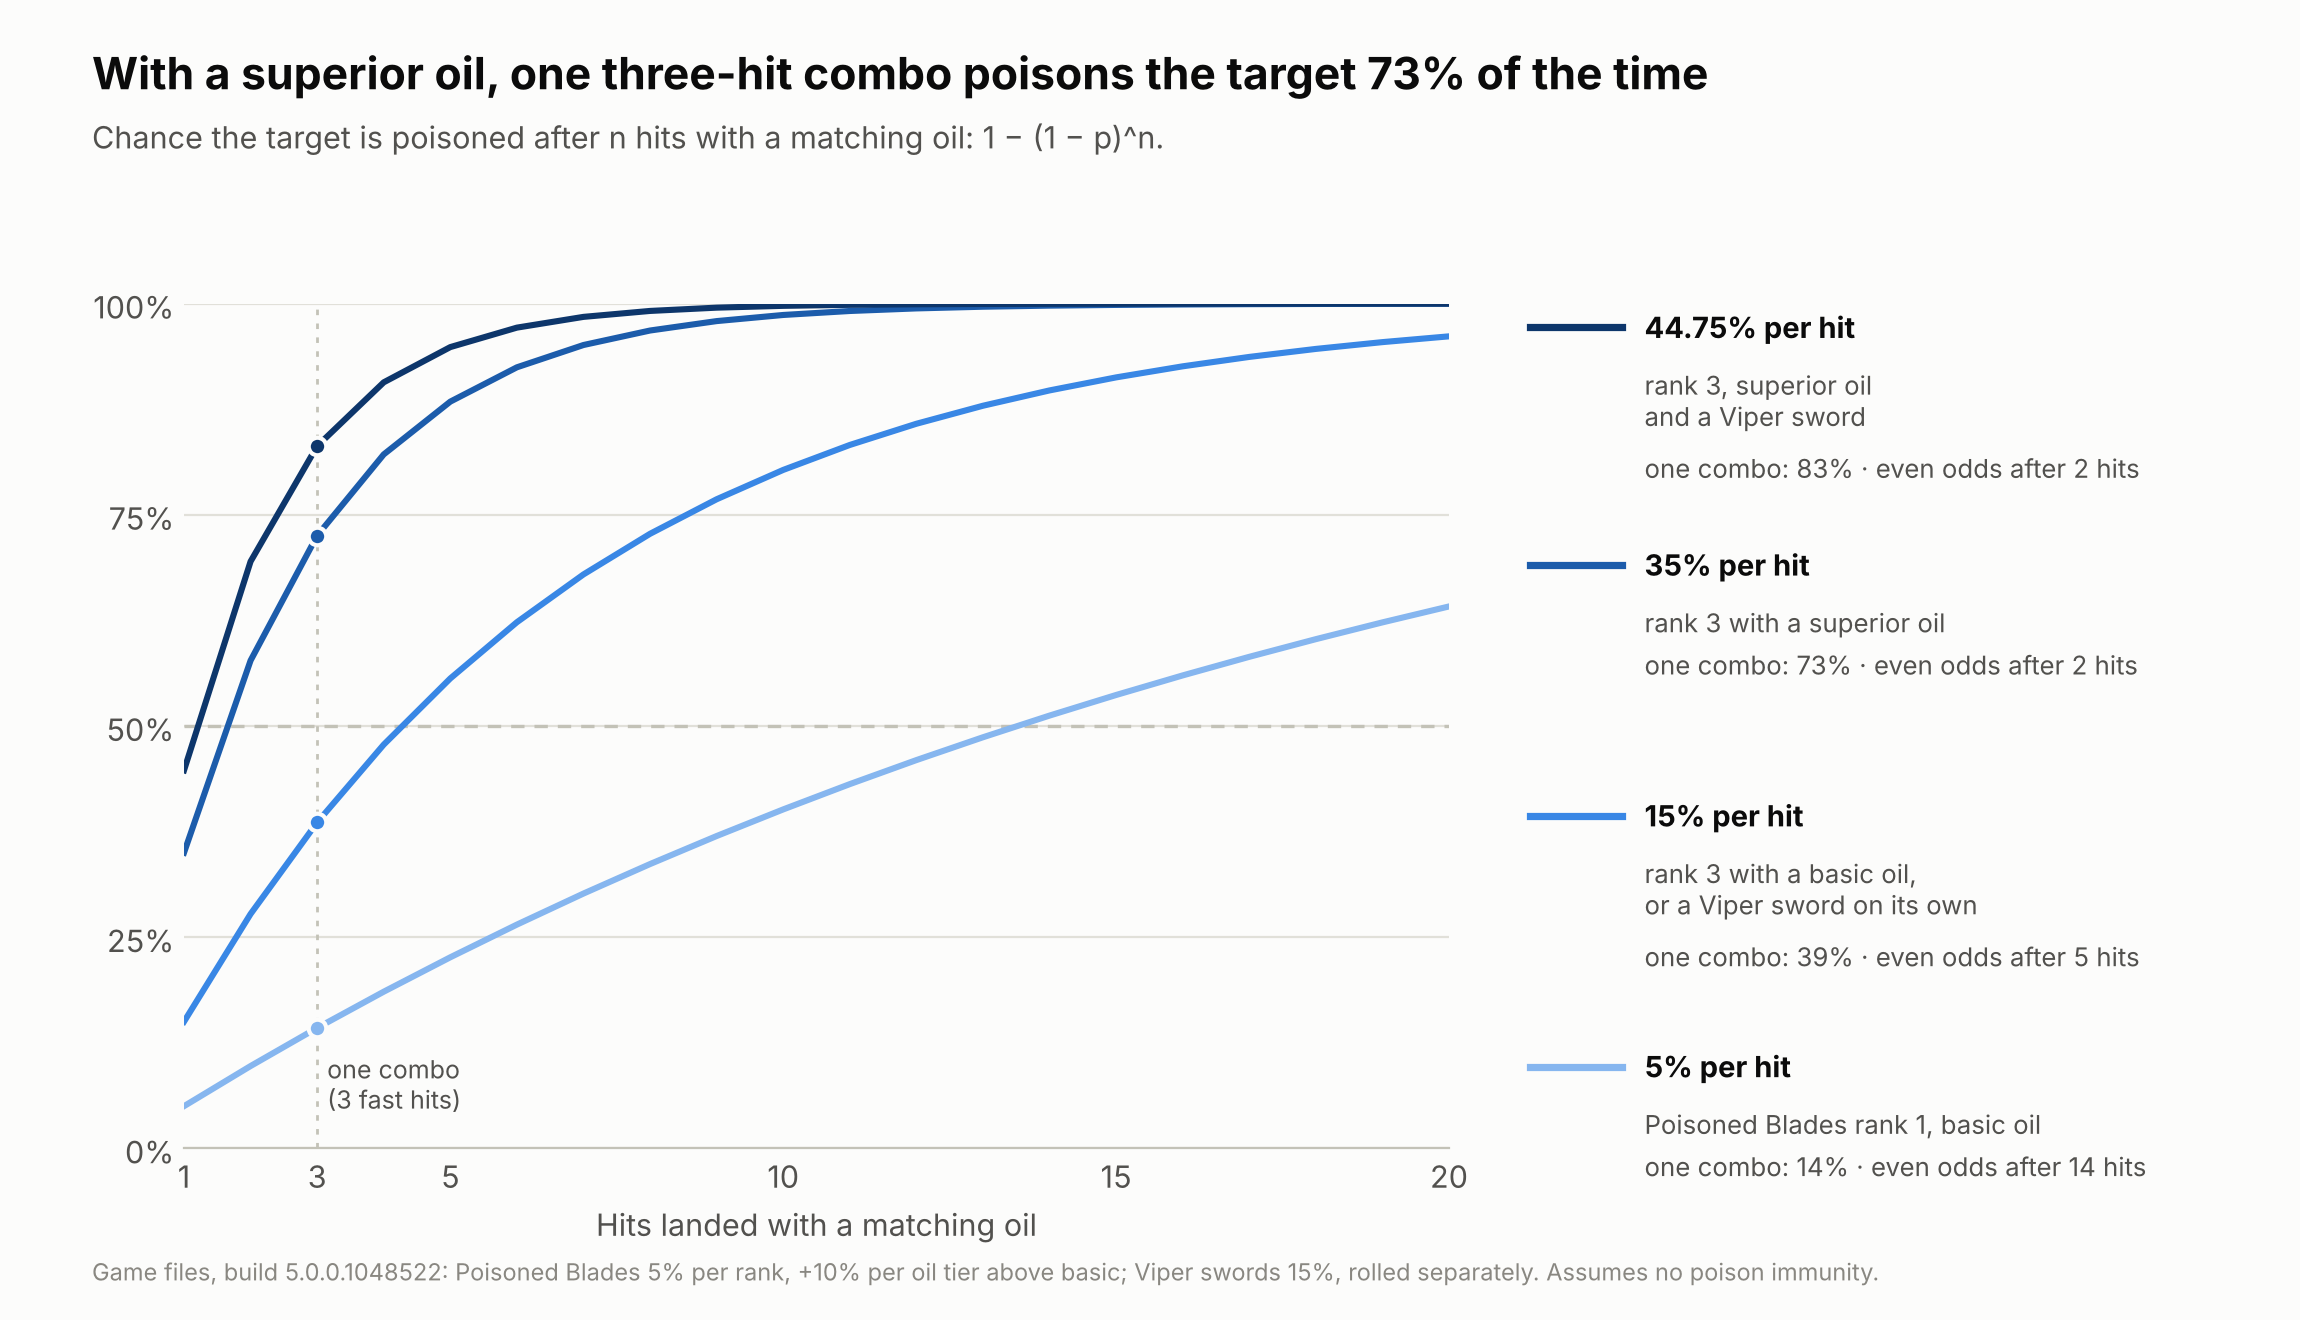
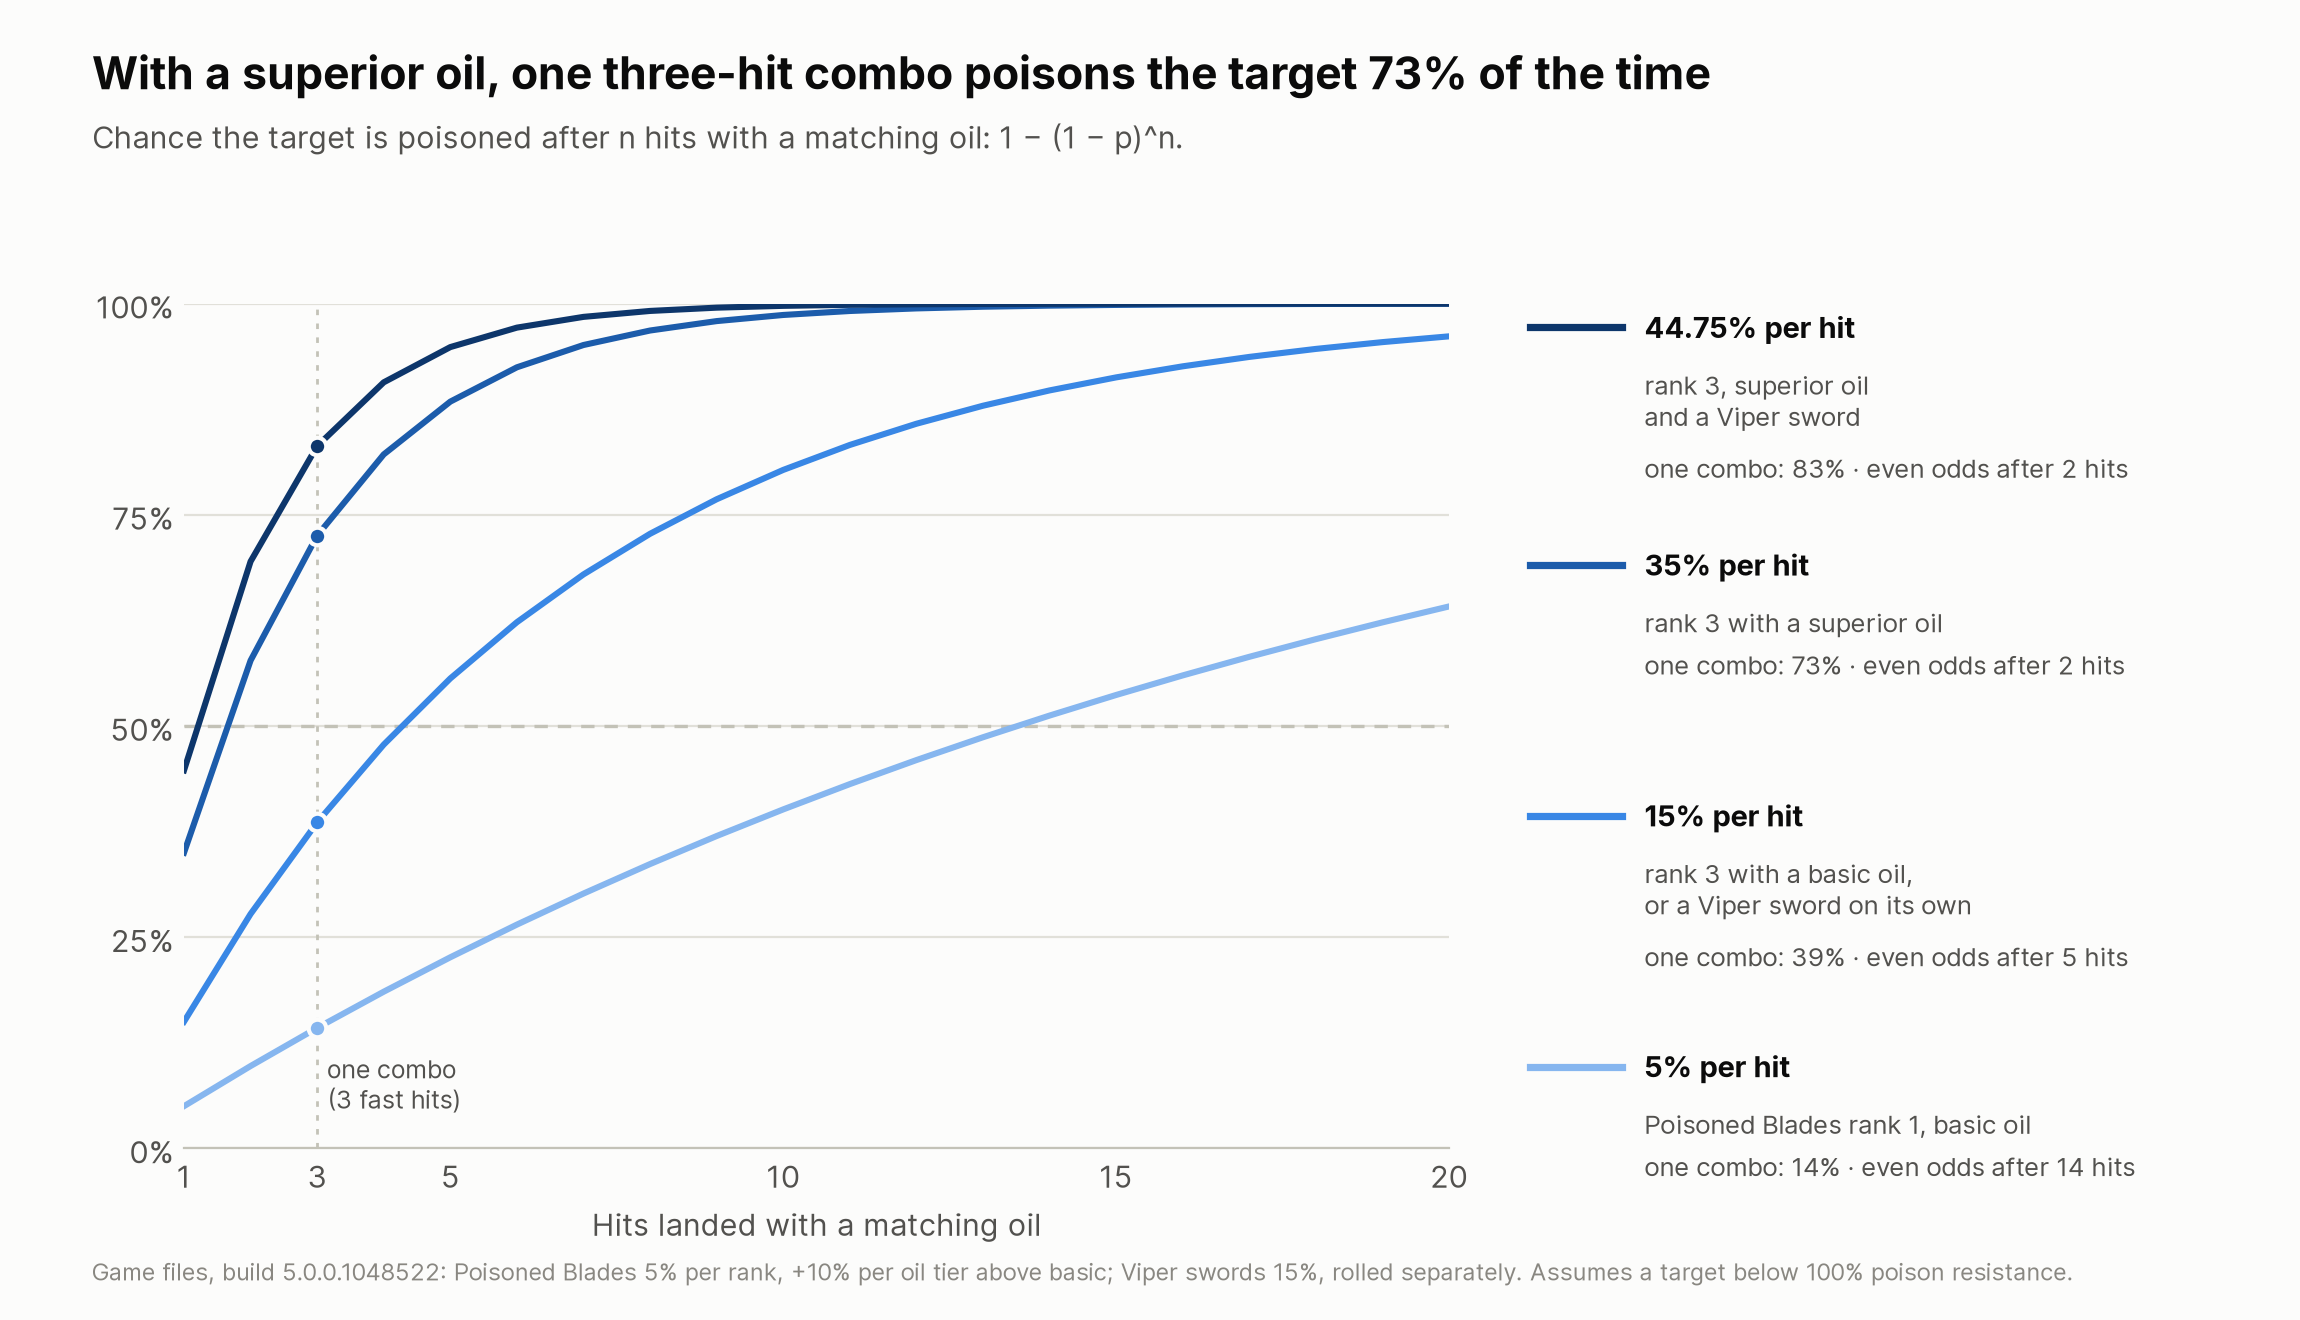
Add the audit scripts and refresh two chart footers
- scripts/unbundle.py, attr_table.py and cr2w_calls.py: the tools
  behind the chapter 19 file audits (bundle extraction with CRC checks,
  attribute listing across the XML, quest-graph script calls).
- scripts/README.md: what each script does and how to repeat the
  audits on a local install; chapter 19 links to it.
- poison-odds.png: footer now assumes a target below 100% poison
  resistance, matching the text. sign-intensity.png: footer credits
  the game files for the Grandmaster items. Both re-rendered with
  matplotlib 3.11.0; the other charts are unchanged.

diff --git a/scripts/unbundle.py b/scripts/unbundle.py
@@ -1,0 +1,71 @@
+"""Extract files from a Witcher 3 .bundle archive (POTATO70 format).
+
+Usage:
+
+    python3 scripts/unbundle.py <bundle> <outdir> [filter]
+
+Writes every file whose internal path contains `filter` (for example ".xml"
+or ".w2phase") under <outdir>, keeping the internal paths, and prints how many
+files passed and failed their size and CRC32 check. Handles uncompressed,
+zlib and LZ4 entries; entries in other formats are counted as skipped.
+
+The chapter 19 audits used it on content/content0/bundles/xml.bundle (game
+definitions), ep1.bundle and bob.bundle (the expansions' definitions), and on
+startup, blob, bob, ep1 and dlc0 for the quest graphs. Run Python with -I
+when you point it at game files, and extract into an empty directory.
+"""
+import struct, sys, zlib, os, binascii
+
+def lz4_block(src, usize):
+    dst = bytearray(); i = 0; n = len(src)
+    while i < n:
+        tok = src[i]; i += 1
+        lit = tok >> 4
+        if lit == 15:
+            while True:
+                b = src[i]; i += 1; lit += b
+                if b != 255: break
+        dst += src[i:i+lit]; i += lit
+        if i >= n: break
+        off = src[i] | (src[i+1] << 8); i += 2
+        ml = tok & 15
+        if ml == 15:
+            while True:
+                b = src[i]; i += 1; ml += b
+                if b != 255: break
+        ml += 4
+        start = len(dst) - off
+        for k in range(ml):
+            dst.append(dst[start + k])
+    return bytes(dst)
+
+def main(bundle, out, flt=None):
+    with open(bundle, 'rb') as f:
+        data = f.read()
+    assert data[:8] == b'POTATO70', data[:8]
+    toc_size = struct.unpack_from('<I', data, 16)[0]
+    pos, end = 0x20, 0x20 + toc_size
+    stats = {}
+    while pos + 0x130 <= end:
+        name = data[pos:pos+0x100].split(b'\0')[0].decode('latin1')
+        off, _, size, zsize, crc, comp = struct.unpack_from('<IIIIII', data, pos + 0x110)
+        pos += 0x130
+        if not name: continue
+        if flt and flt not in name.replace('\\', '/'): continue
+        raw = data[off:off+zsize]
+        if comp == 0: buf = raw
+        elif comp == 1: buf = zlib.decompress(raw)
+        elif comp in (4, 5): buf = lz4_block(raw, size)
+        else:
+            stats['skipped_comp_%d' % comp] = stats.get('skipped_comp_%d' % comp, 0) + 1
+            continue
+        ok = len(buf) == size and (crc == 0 or (binascii.crc32(buf) & 0xffffffff) == crc)
+        stats['ok' if ok else 'bad'] = stats.get('ok' if ok else 'bad', 0) + 1
+        p = os.path.join(out, name.replace('\\', os.sep))
+        os.makedirs(os.path.dirname(p), exist_ok=True)
+        with open(p, 'wb') as g:
+            g.write(buf)
+    print(stats)
+
+if __name__ == '__main__':
+    main(sys.argv[1], sys.argv[2], sys.argv[3] if len(sys.argv) > 3 else None)

diff --git a/scripts/cr2w_calls.py b/scripts/cr2w_calls.py
@@ -1,0 +1,60 @@
+"""Show the script calls in a Witcher 3 quest graph (.w2phase, CR2W format).
+
+Usage:
+
+    python3 scripts/cr2w_calls.py <file.w2phase> [functionName]
+
+Prints every CQuestScriptBlock, or only those calling `functionName`, with
+their properties: comment, caption, function name and the raw parameter and
+connection data. Chapter 19 used it on Blood and Wine's
+mq7023_mutations.w2phase, the only quest graph that calls AddSkillPoints, to
+find the two Moreau lab grants. The condition block in front of them was
+traced by following the cachedConnections chunk indices.
+"""
+import struct, sys
+
+def main(path, fn=None):
+    d = open(path, 'rb').read()
+    assert d[:4] == b'CR2W'
+    tables = [struct.unpack_from('<III', d, 0x28 + 12 * i) for i in range(10)]
+    s_off, s_size, _ = tables[0]
+    strings = d[s_off:s_off + s_size]
+    def cstr(o):
+        return strings[o:strings.index(b'\0', o)].decode('latin1')
+    n_off, n_cnt, _ = tables[1]
+    names = [cstr(struct.unpack_from('<I', d, n_off + 8 * i)[0]) for i in range(n_cnt)]
+    e_off, e_cnt, _ = tables[4]
+    chunks = []
+    for i in range(e_cnt):
+        cls, flags, parent, size, off, tmpl, crc = struct.unpack_from('<HHIIIII', d, e_off + 24 * i)
+        chunks.append((names[cls], parent, d[off:off + size]))
+
+    def props(buf):
+        out, p = [], 1
+        while p + 8 <= len(buf):
+            ni, ti, sz = struct.unpack_from('<HHI', buf, p)
+            if ni == 0: break
+            out.append((names[ni], names[ti], buf[p + 8:p + 4 + sz]))
+            p += 4 + sz
+        return out
+
+    def fmt(t, v):
+        if t == 'CName' and len(v) == 2: return names[struct.unpack('<H', v)[0]]
+        if t in ('Int32', 'Uint32') and len(v) == 4: return struct.unpack('<i', v)[0]
+        if t == 'Bool' and len(v) == 1: return bool(v[0])
+        if t == 'String' and v:
+            n = v[0] & 0x7f
+            return v[1:1 + n].decode('latin1') if v[0] & 0x80 else v[1:1 + 2 * n].decode('utf-16-le', 'replace')
+        return v.hex()
+
+    for idx, (cls, parent, buf) in enumerate(chunks):
+        if cls != 'CQuestScriptBlock': continue
+        ps = props(buf)
+        f = next((fmt(t, v) for n, t, v in ps if n == 'functionName'), None)
+        if fn and f != fn: continue
+        print('chunk #%d parent=%d' % (idx + 1, parent))
+        for n, t, v in ps:
+            print('   %s : %s = %s' % (n, t, fmt(t, v)))
+
+if __name__ == '__main__':
+    main(sys.argv[1], sys.argv[2] if len(sys.argv) > 2 else None)

diff --git a/scripts/attr_table.py b/scripts/attr_table.py
@@ -1,0 +1,35 @@
+"""List every ability that defines one attribute, across extracted XML.
+
+Usage:
+
+    python3 scripts/attr_table.py <extracted-root> <attribute> [--include-plus]
+
+Prints one tab-separated row per definition: ability name, type (base, mult
+or add), value and file:line. New Game+ copies (abilities_plus, items_plus)
+are skipped unless --include-plus is given. Chapter 19 used it for the
+poison-resistance list (poison_resistance_perc) and to show that no
+definition gives critical_hit_damage_bonus a base value.
+"""
+import os, re, sys
+
+root, attr = sys.argv[1], sys.argv[2]
+plus = '--include-plus' in sys.argv
+abil_re = re.compile(r'<ability\s+name="([^"]+)"')
+attr_re = re.compile(r'<%s\b([^>]*)>' % re.escape(attr))
+for dp, _, fs in os.walk(root):
+    if not plus and '_plus' in dp:
+        continue
+    for f in fs:
+        if not f.endswith('.xml'):
+            continue
+        p = os.path.join(dp, f)
+        cur = None
+        for ln, line in enumerate(open(p, encoding='utf-8', errors='replace'), 1):
+            m = abil_re.search(line)
+            if m:
+                cur = m.group(1)
+            for a in attr_re.finditer(line):
+                t = re.search(r'type="(\w+)"', a.group(1))
+                v = re.search(r'min="([-\d.]+)"', a.group(1))
+                print('%s\t%s\t%s\t%s:%d' % (cur, t.group(1) if t else '?', v.group(1) if v else '?',
+                                            os.path.relpath(p, root).replace('\\', '/'), ln))

diff --git a/scripts/charts.py b/scripts/charts.py
@@ -452,7 +452,7 @@ def poison_odds():
         fig.text(0.715, ly + 0.012, lab, fontsize=10.5, fontweight="bold", color=INK, va="center")
         fig.text(0.715, ly - 0.020, src, fontsize=9.3, color=INK2, va="top")
         fig.text(0.715, ly - (0.083 if "\n" in src else 0.052), f"one combo: {p3:.0%} · even odds after {half} hit{'s' if half > 1 else ''}", fontsize=9.3, color=INK2, va="top")
-    fig.text(0.04, 0.03, "Game files, build 5.0.0.1048522: Poisoned Blades 5% per rank, +10% per oil tier above basic; Viper swords 15%, rolled separately. Assumes no poison immunity.",
+    fig.text(0.04, 0.03, "Game files, build 5.0.0.1048522: Poisoned Blades 5% per rank, +10% per oil tier above basic; Viper swords 15%, rolled separately. Assumes a target below 100% poison resistance.",
              fontsize=8.5, color=MUTED)
     save(fig, "poison-odds.png")
 

diff --git a/scripts/README.md b/scripts/README.md
@@ -1,0 +1,23 @@
+# Scripts
+
+The code used to build the book. Run everything from the repository root; each script's docstring has the details.
+
+| Script | What it does |
+| --- | --- |
+| `charts.py` | Rebuilds every chart in `images/`. Needs matplotlib and, for matching output, the Inter font. |
+| `unbundle.py` | Extracts files from the game's `.bundle` archives and checks each one's size and CRC32. |
+| `attr_table.py` | Lists every ability in the extracted XML that defines a given attribute, with its type, value and line. |
+| `cr2w_calls.py` | Shows the script calls in a quest graph (`.w2phase`), with their comments and properties. |
+
+## Reproducing the file audits
+
+The audits in [chapter 19](../chapters/19-the-maths.md#file-evidence-and-reproducibility) read build `5.0.0.1048522`. To repeat them against your own install (`<game>` is the game folder):
+
+```bash
+python3 -I scripts/unbundle.py "<game>/content/content0/bundles/xml.bundle" extracted/xml
+python3 -I scripts/unbundle.py "<game>/content/content0/bundles/ep1.bundle" extracted/ep1 .xml
+python3 -I scripts/unbundle.py "<game>/content/content0/bundles/bob.bundle" extracted/bob .xml
+python3 -I scripts/attr_table.py extracted poison_resistance_perc
+```
+
+The game scripts need no extraction: they ship as plain `.ws` files in `<game>/content/content0/scripts/`. Mods installed in `<game>/mods` can override both definitions and scripts, so the audits read only the vanilla bundles.

diff --git a/chapters/19-the-maths.md b/chapters/19-the-maths.md
@@ -417,7 +417,7 @@ Prioritize questions by whether the answer could change a build choice:
 
 The audits read the local game files on **October 9, 2026**. The DX12 executable reported **`5.0.0.1048522`**. These findings apply to that installed build; they do not establish that every 5.0/5.01 build has identical data.
 
-Definitions below are paths **inside `content/content0/bundles/xml.bundle`**, or inside the expansion bundles where marked (Hearts of Stone: `dlc/ep1/data/`; Blood and Wine: `dlc/bob/data/`). They were extracted to a separate directory, and their uncompressed sizes and CRC32 checksums were verified. Script paths are relative to **`content/content0/scripts/`**. No runtime measurements were made.
+Definitions below are paths **inside `content/content0/bundles/xml.bundle`**, or inside the expansion bundles where marked (Hearts of Stone: `dlc/ep1/data/`; Blood and Wine: `dlc/bob/data/`). They were extracted to a separate directory, and their uncompressed sizes and CRC32 checksums were verified. Script paths are relative to **`content/content0/scripts/`**. No runtime measurements were made. The extraction and search tools are in the repository's [`scripts/`](../scripts/README.md) folder, with steps for repeating the audits on your own install.
 
 | Finding | Definition | Implemented calculation |
 | --- | --- | --- |
